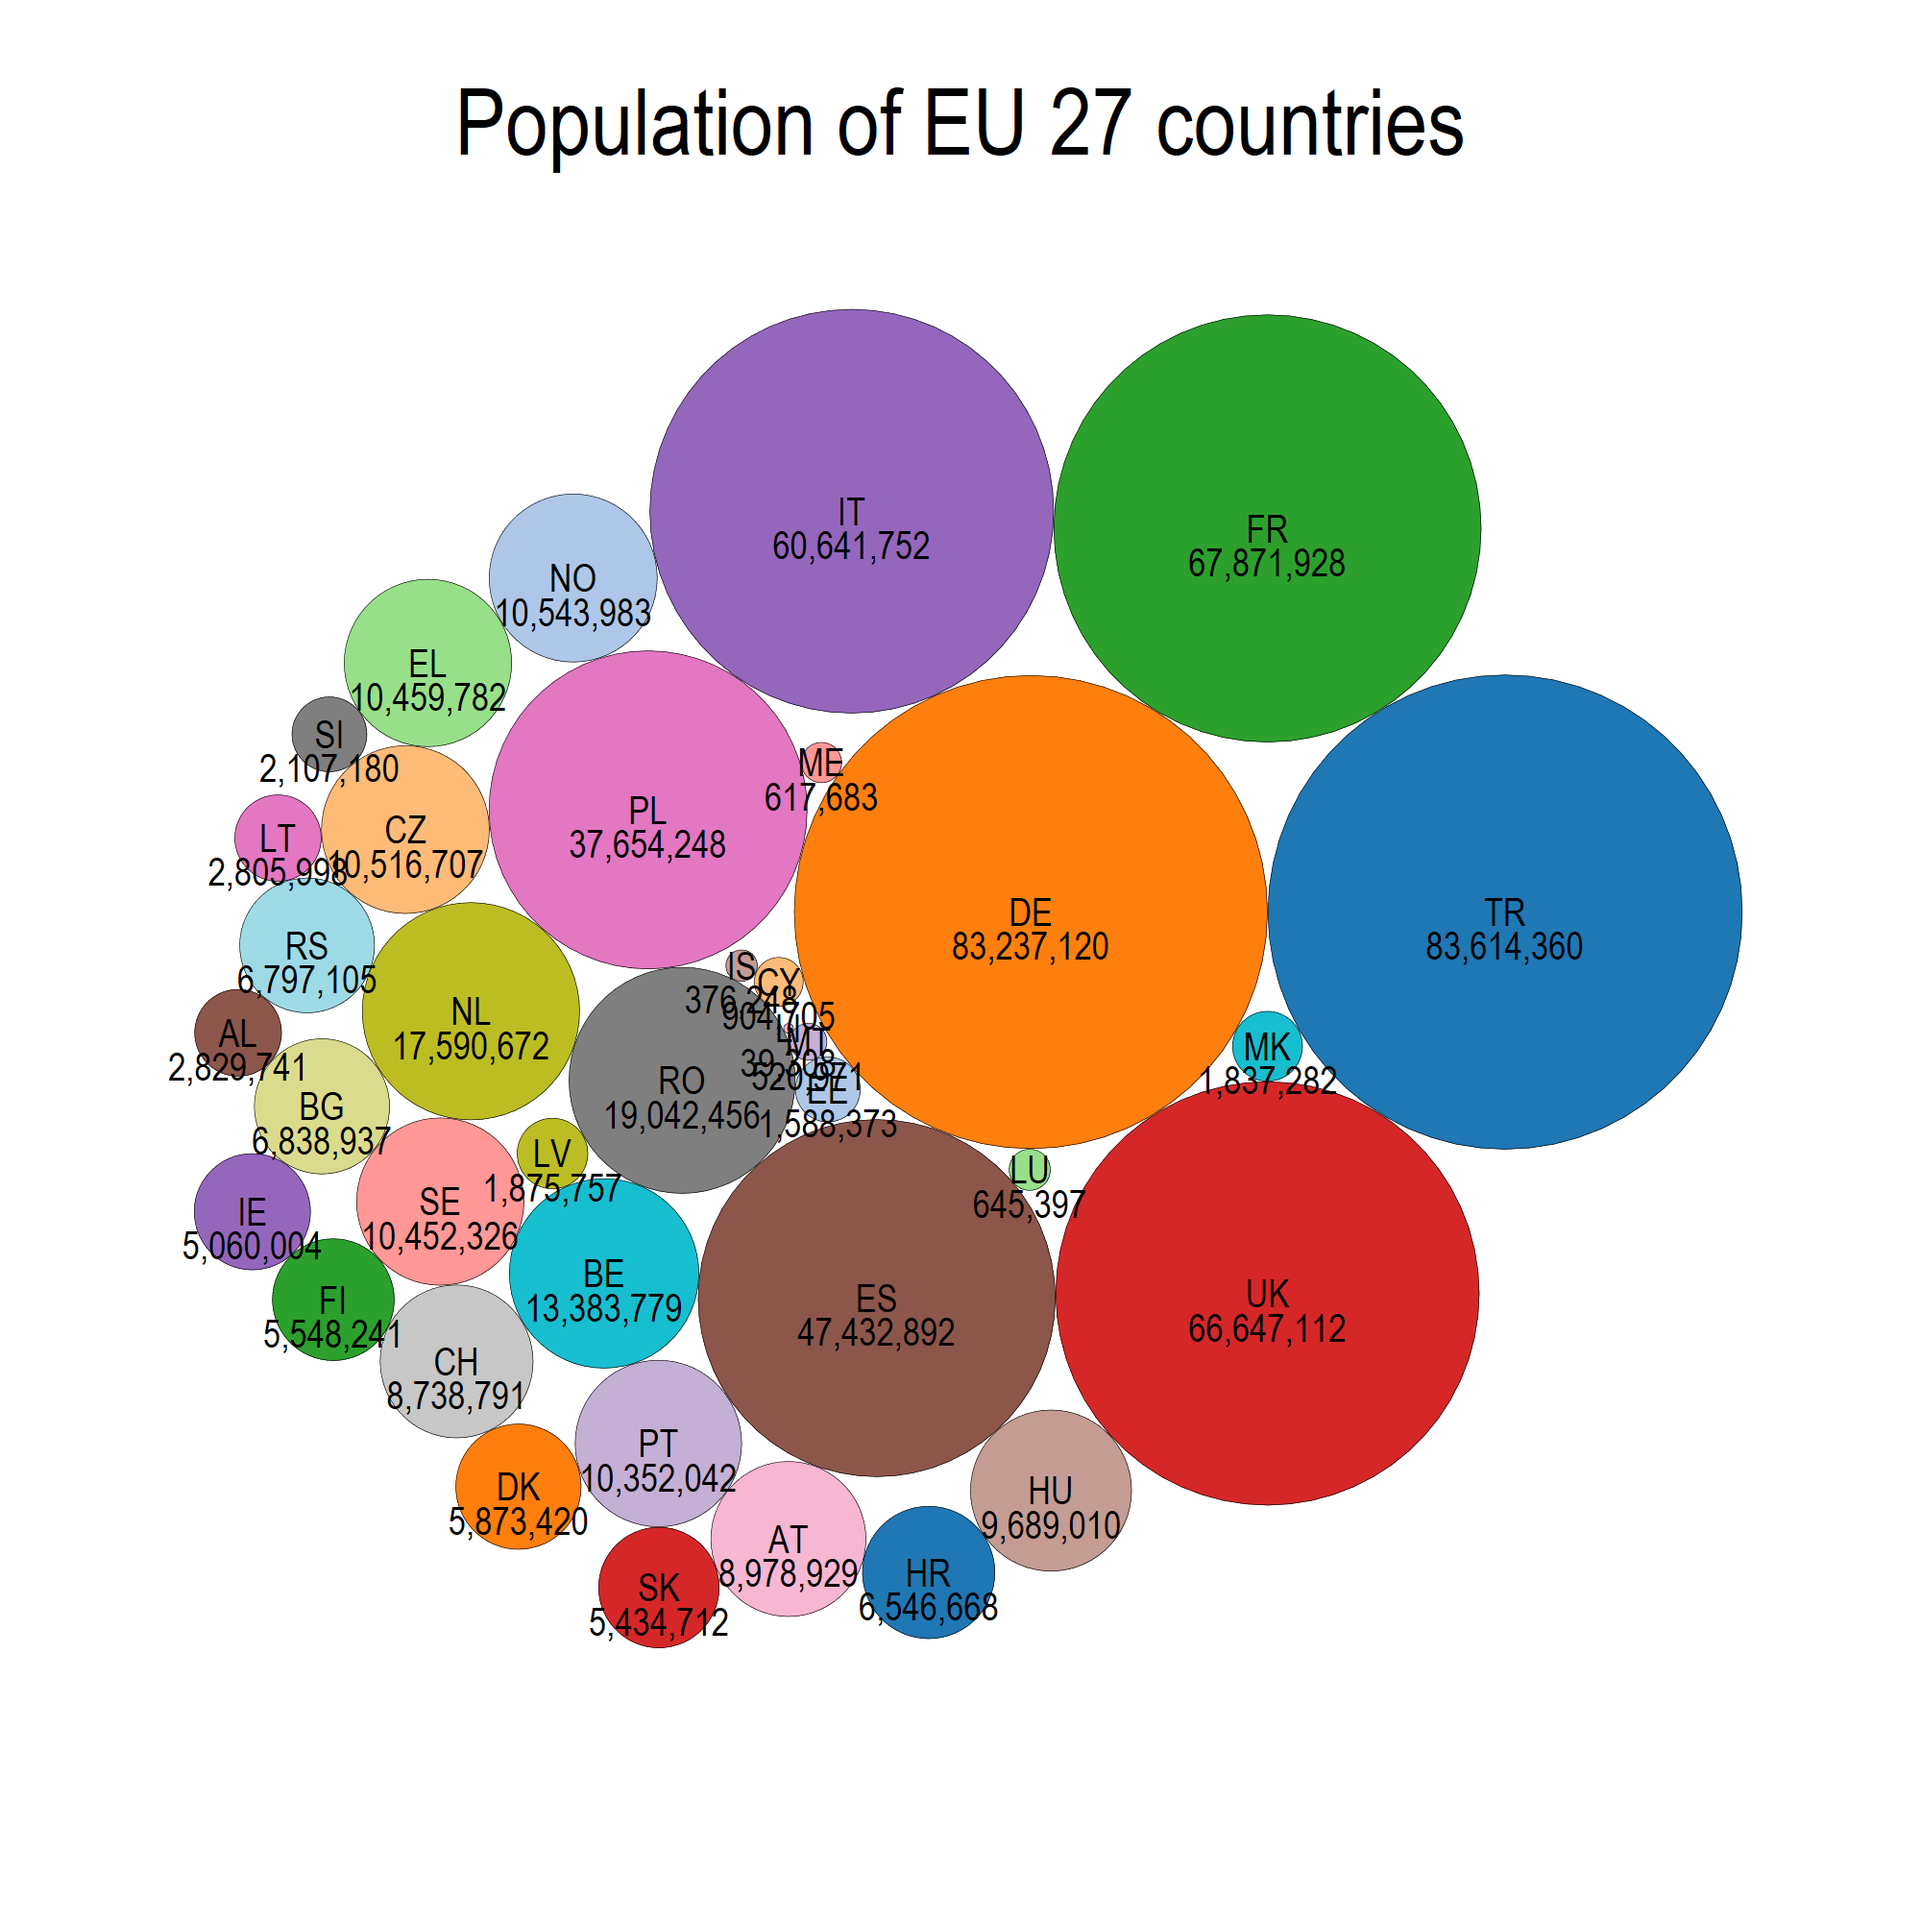
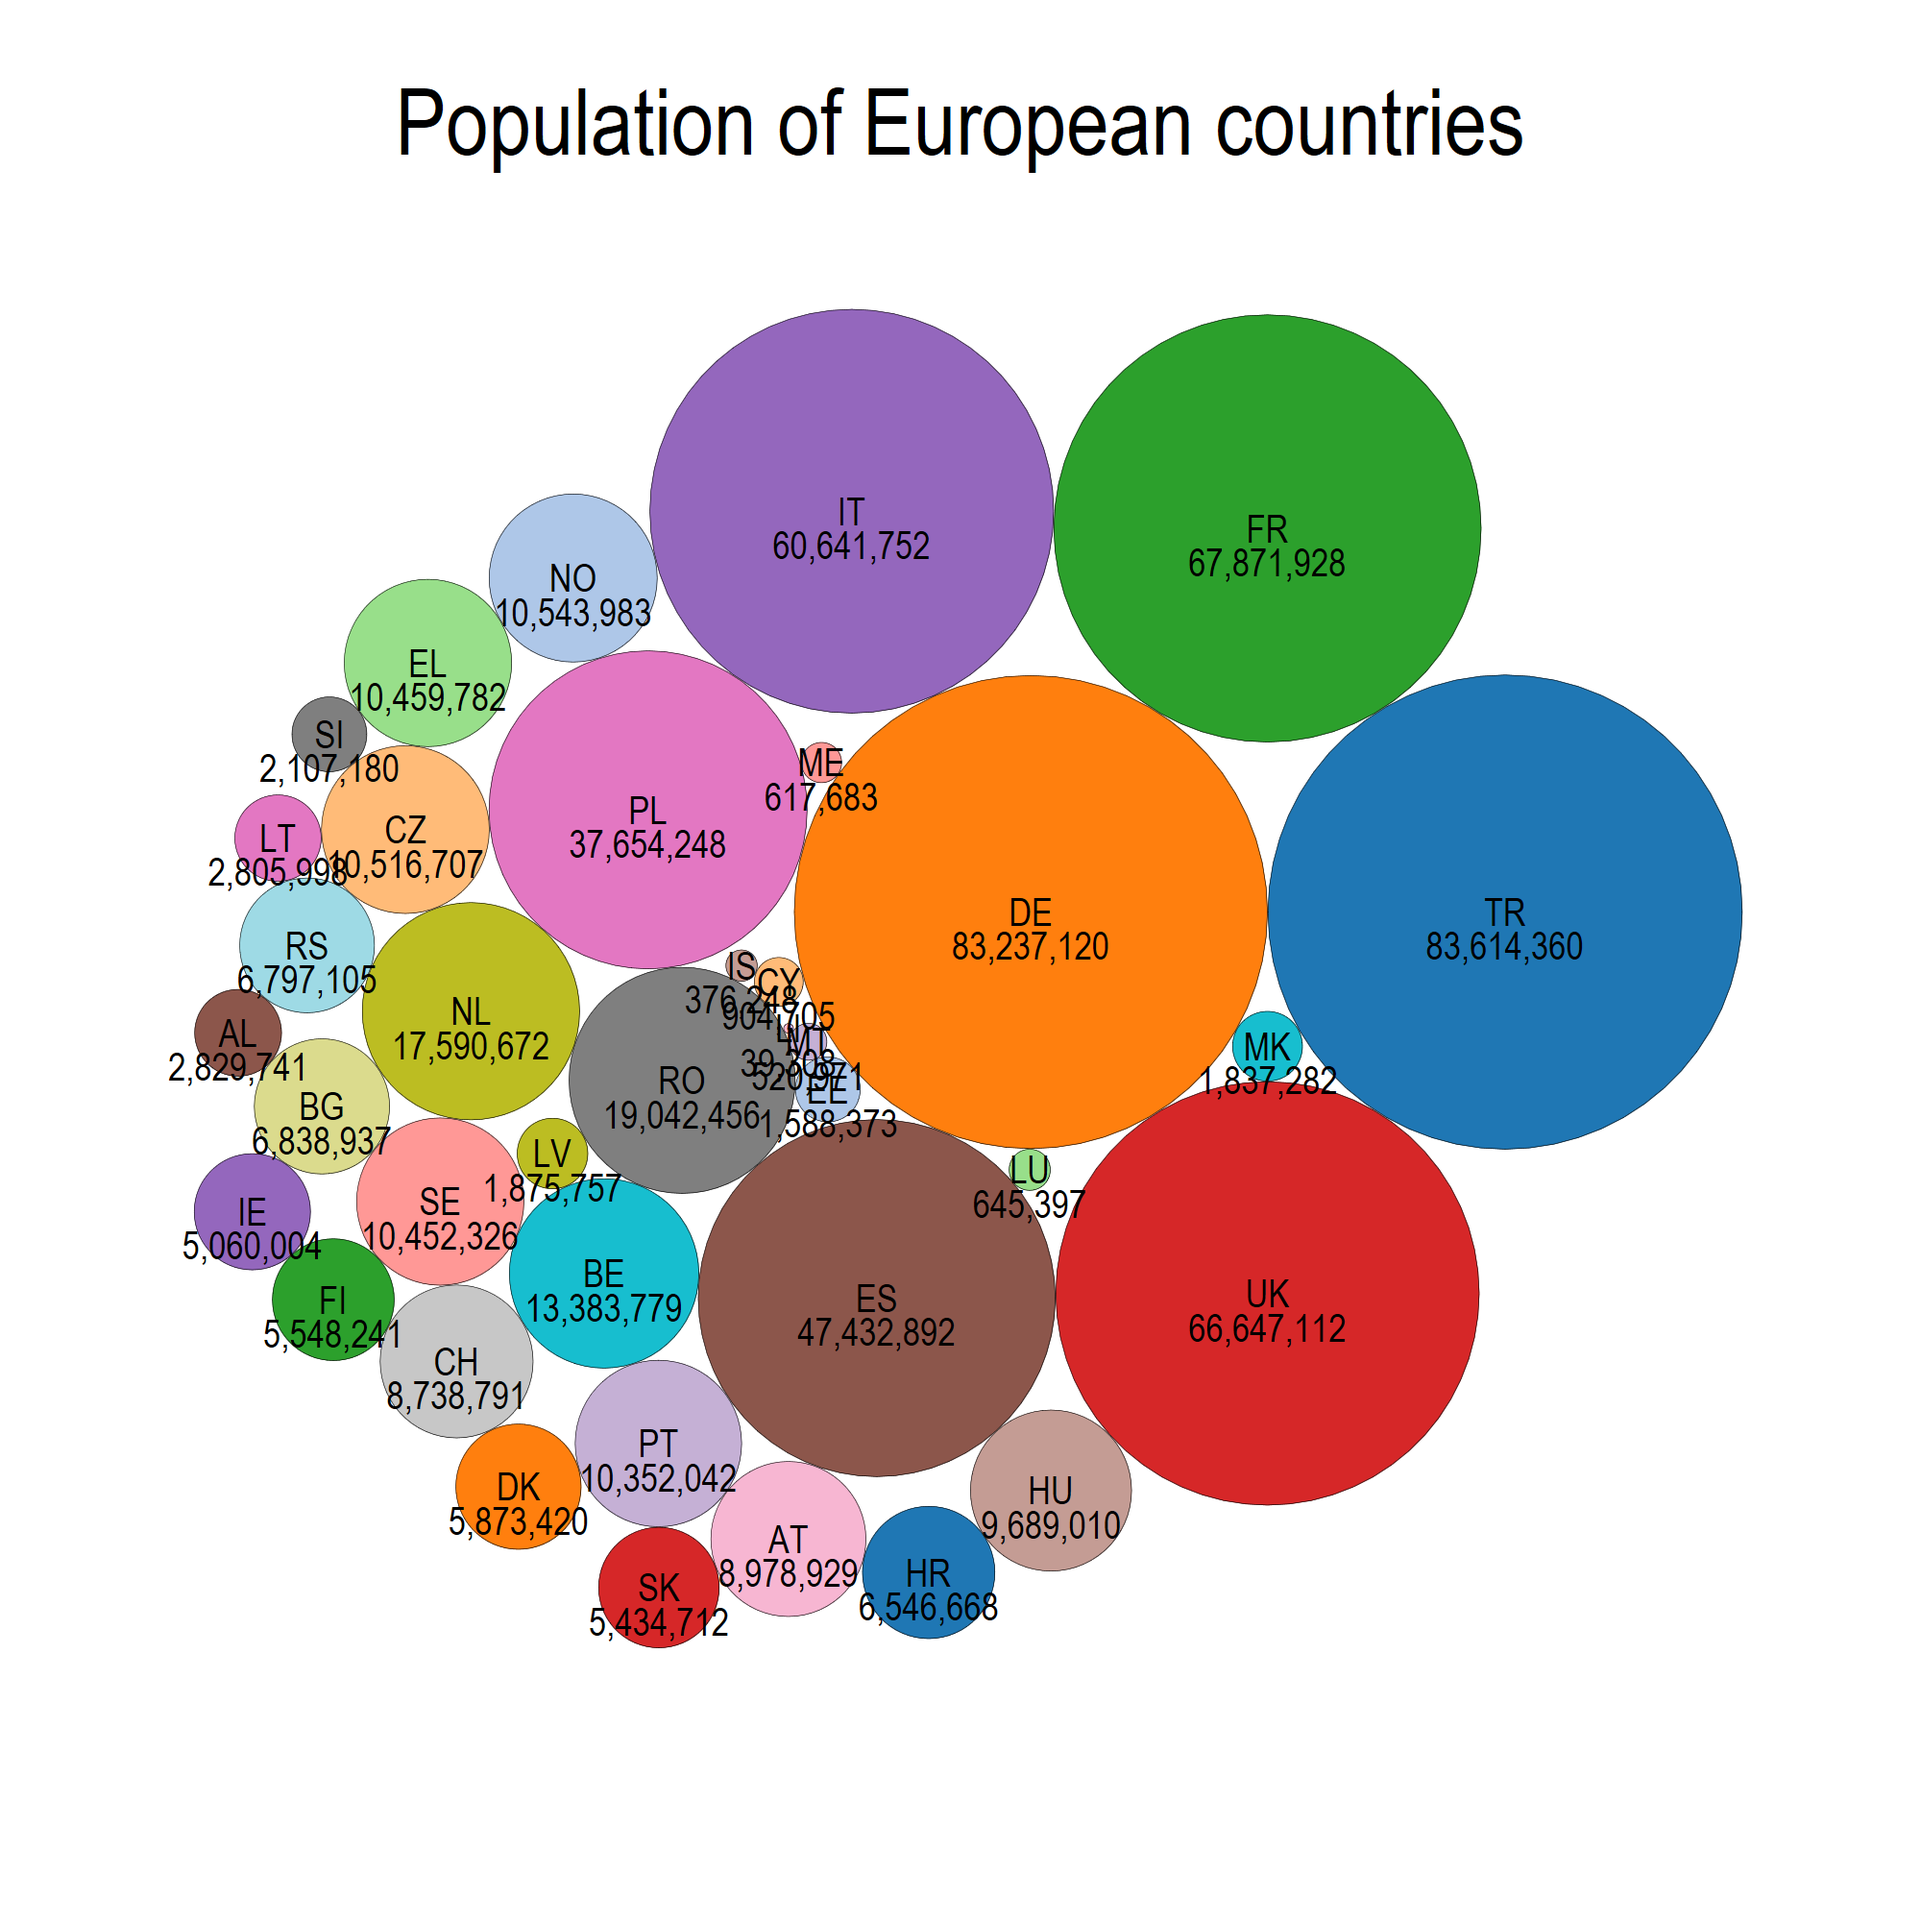
graphs fix

Changed region(s): [[0.186, 0.031, 0.806, 0.093]]

diff --git a/README.md b/README.md
@@ -88,21 +88,21 @@ use "https://github.com/asjadnaqvi/stata-circlepack/blob/main/data/demo_r_pjangr
 
 
 ```
-circlepack pop, by(NUTS0) format(%15.0fc) title("Population of EU 27 countries")
+circlepack pop, by(NUTS0) format(%15.0fc) title("Population of European countries")
 ```
 
 <img src="/figures/circlepack1.png" height="600">
 
 
 ```
-circlepack pop, by(NUTS0) title("Population of EU 27 countries") noval
+circlepack pop, by(NUTS0) title("Population of European countries") noval
 ```
 
 <img src="/figures/circlepack2.png" height="600">
 
 
 ```
-circlepack pop, by(NUTS0) title("Population of EU 27 countries") circle0 noval
+circlepack pop, by(NUTS0) title("Population of European countries") circle0 noval
 ```
 
 <img src="/figures/circlepack3.png" height="600">
